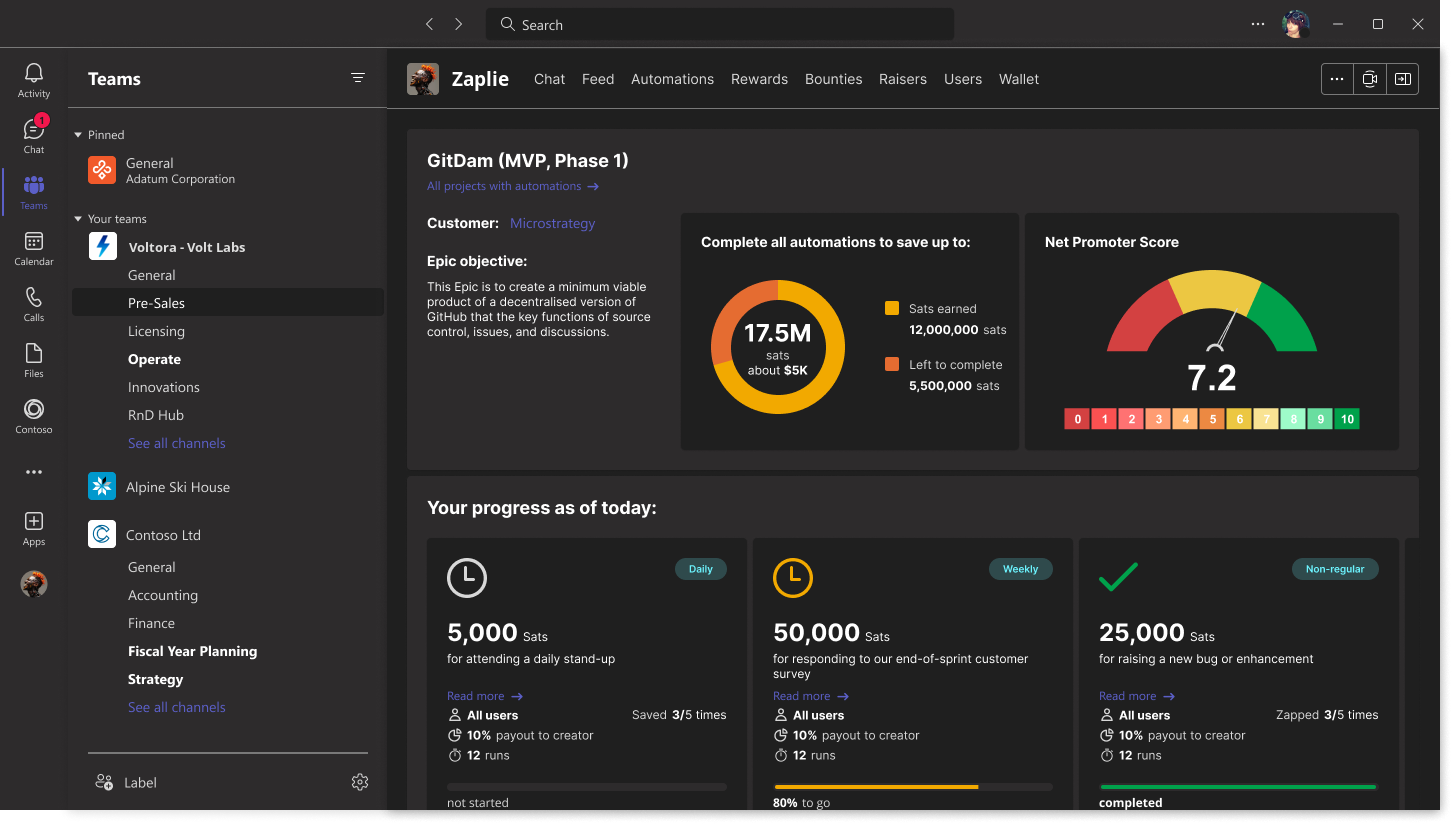
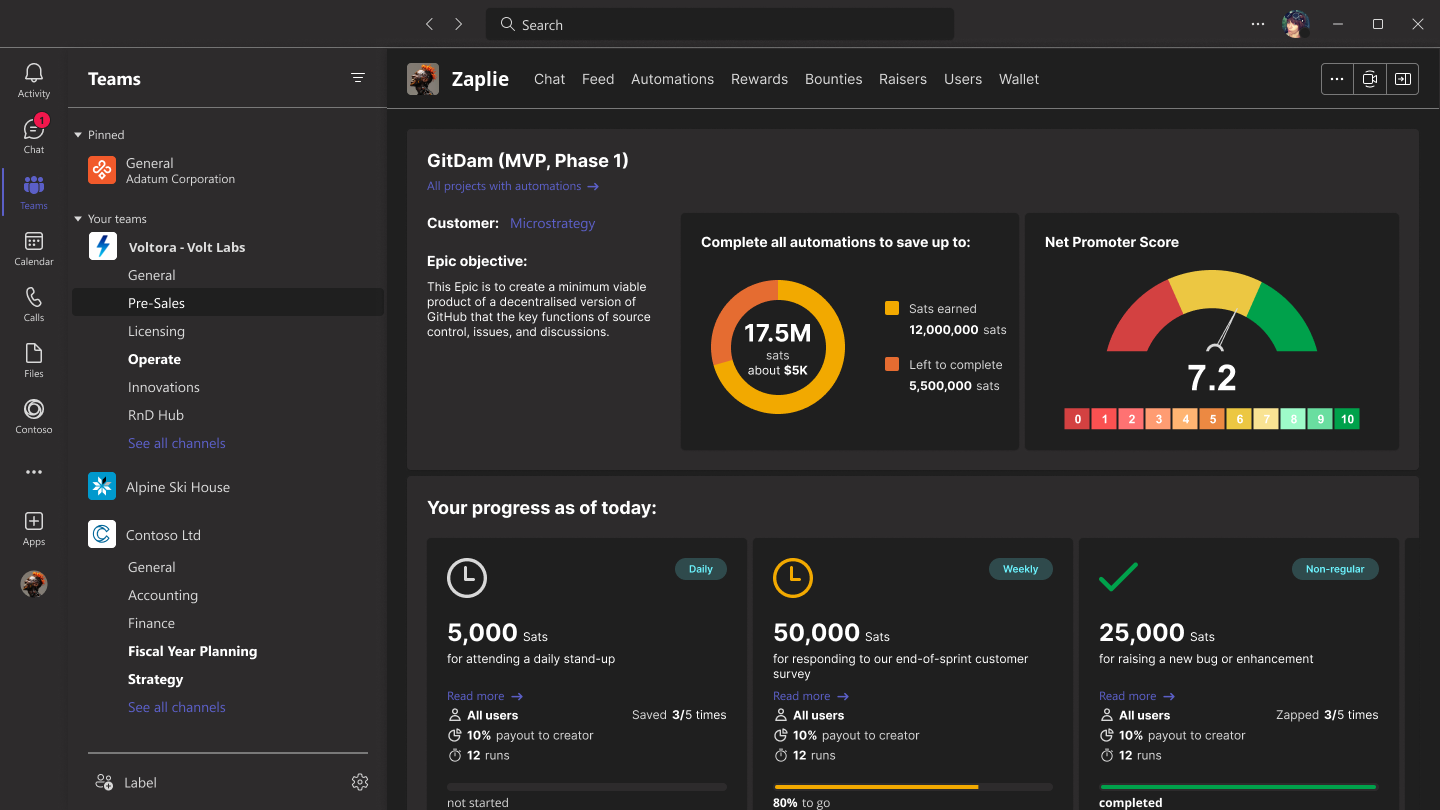
fix: rename Zaplie anchor to #zaplie and normalise 06-project.png size
The section id, header nav, footer link, and footer test still used the
legacy #zapp anchor, so knowall.ai/#zaplie did not resolve. 06-project.png
was 1452x824 with right/bottom padding while the other eight carousel
screenshots are 1440x810; cropped to match (content is top-left aligned,
verified by chrome-area diff against 02-feed.png).

Fixes #79

Claude-Session: https://claude.ai/code/session_01UzJ7i2xhbqKdiKk7eGYZvx

diff --git a/app/page.tsx b/app/page.tsx
@@ -71,7 +71,7 @@ export default function Home() {
                   className="border-white text-white hover:bg-white/10"
                   asChild
                 >
-                  <a href="#zapp">Find out more about Zaplie</a>
+                  <a href="#zaplie">Find out more about Zaplie</a>
                 </Button>
               </div>
             </div>
@@ -119,7 +119,7 @@ export default function Home() {
       </section>
 
       {/* About Zaplie Section */}
-      <section id="zapp" className="py-20 px-4 bg-gray-800 text-white">
+      <section id="zaplie" className="py-20 px-4 bg-gray-800 text-white">
         <div className="container max-w-6xl mx-auto">
           <h2 className="text-3xl md:text-4xl font-bold mb-8 text-center">
             Zaplie: Incentivizing teammates, copilots & customers

diff --git a/components/footer.tsx b/components/footer.tsx
@@ -56,7 +56,7 @@ export default function Footer({ darkMode = false }: FooterProps) {
                 </Link>
               </li>
               <li>
-                <Link href="/#zapp" className="text-gray-400 hover:text-white transition-colors">
+                <Link href="/#zaplie" className="text-gray-400 hover:text-white transition-colors">
                   Bitcoin Integration
                 </Link>
               </li>

diff --git a/components/header.tsx b/components/header.tsx
@@ -30,7 +30,7 @@ export default function Header() {
 
   // NOTE: "Allie for Accounts" (#allie) joins this dropdown once PR #7 merges.
   const productLinks = [
-    { name: 'Zaplie', href: '/#zapp' },
+    { name: 'Zaplie', href: '/#zaplie' },
     { name: 'Zapdesk', href: '/#zapdesk' },
     { name: 'Thyme', href: '/#thyme' },
     { name: 'T-Minus-15', href: '/#tminus15' },

diff --git a/tests/unit/components/footer.test.tsx b/tests/unit/components/footer.test.tsx
@@ -36,7 +36,7 @@ describe('Footer', () => {
     );
     expect(screen.getByRole('link', { name: 'Bitcoin Integration' })).toHaveAttribute(
       'href',
-      '/#zapp'
+      '/#zaplie'
     );
   });
 
